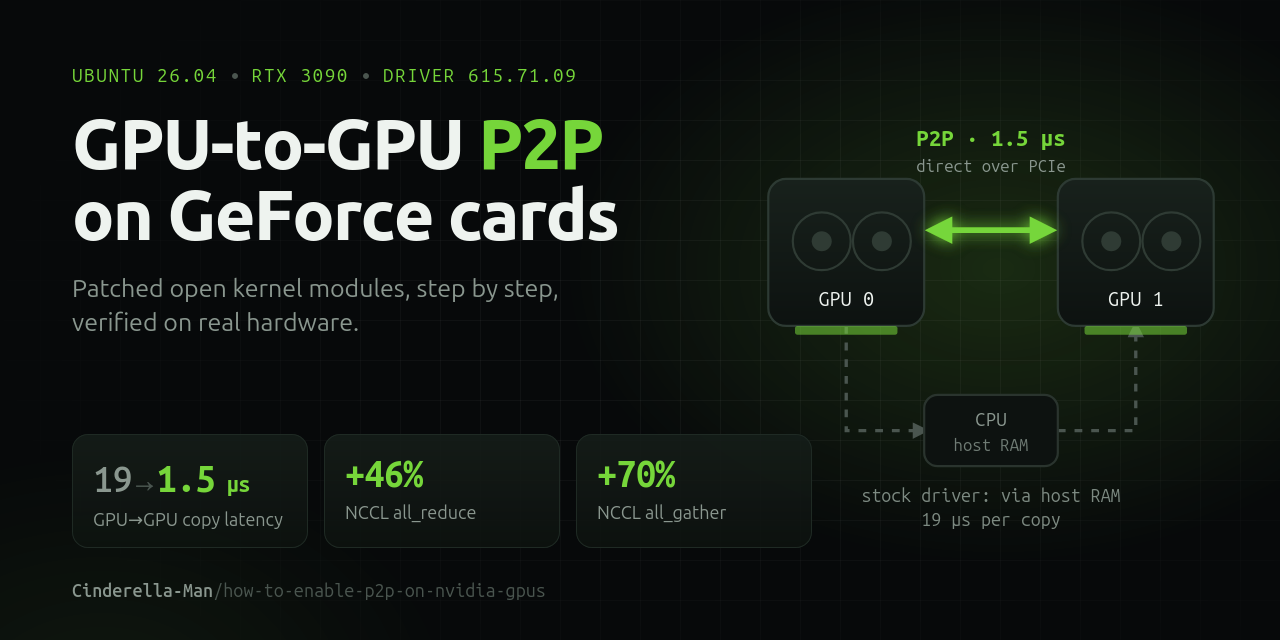
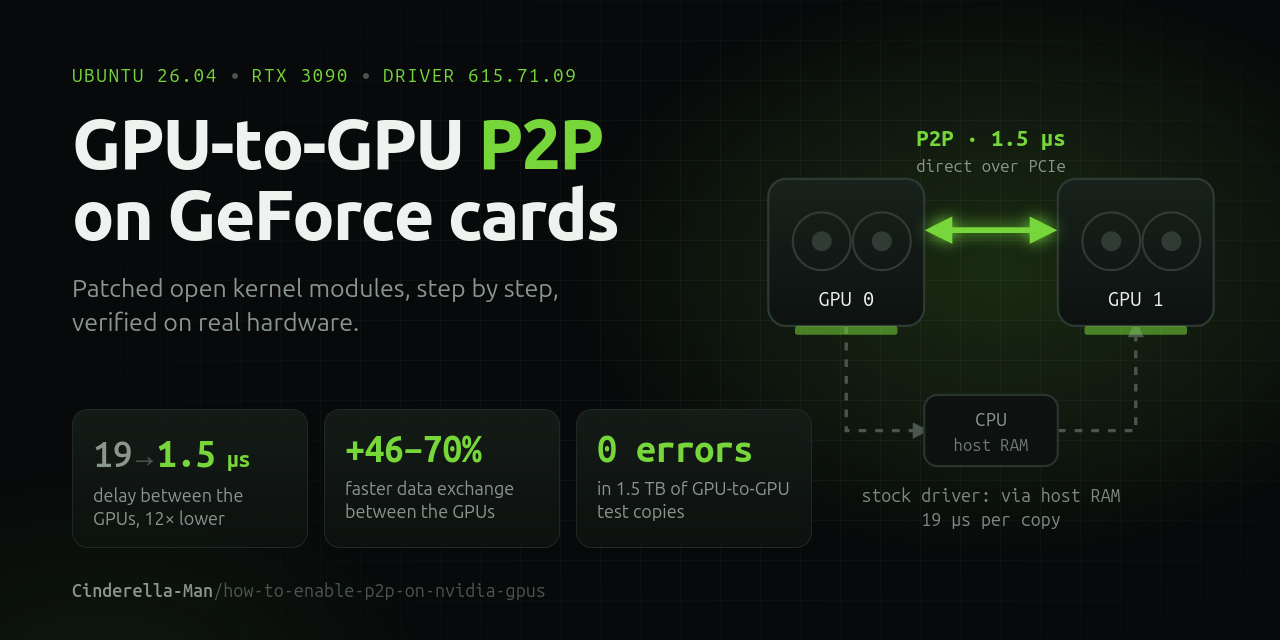
Explain the benchmark results in plain language
The README, the social preview and docs/benchmarks.md now describe what
P2P changed in everyday terms (delay between the GPUs, data exchange
speed, errors in the test copies) and keep the NCCL operation names as
footnotes. benchmarks.md gains an "In plain words" section explaining
latency vs bandwidth and what each NCCL operation is used for.

Both say that these are data-exchange speeds, not whole-workload
speedups, and quote upstream's vLLM result accurately (no gain to +32 %
depending on prompt length).

Changed region(s): [[0.0625, 0.6875, 0.2188, 0.8438], [0.25, 0.6562, 0.4062, 0.8125], [0.4688, 0.6875, 0.625, 0.8125]]

diff --git a/docs/assets/social-preview.html b/docs/assets/social-preview.html
@@ -64,7 +64,7 @@
   }
   .stat .num .from { color: var(--muted); font-weight: 500; }
   .stat .num .arrow { color: var(--dim); font-weight: 400; padding: 0 2px; }
-  .stat .label { margin-top: 6px; font-size: 18px; color: var(--muted); }
+  .stat .label { margin-top: 6px; font-size: 18px; line-height: 1.3; color: var(--muted); }
   .foot {
     position: absolute; left: 72px; bottom: 38px;
     font-family: "Ubuntu Sans Mono", "Noto Sans Mono", monospace;
@@ -87,15 +87,15 @@
   <div class="stats">
     <div class="stat">
       <div class="num"><span class="from">19</span><span class="arrow">→</span>1.5<span style="font-size:22px"> µs</span></div>
-      <div class="label">GPU→GPU copy latency</div>
+      <div class="label">delay between the GPUs, 12× lower</div>
     </div>
     <div class="stat">
-      <div class="num">+46%</div>
-      <div class="label">NCCL all_reduce</div>
+      <div class="num">+46–70%</div>
+      <div class="label">faster data exchange between the GPUs</div>
     </div>
     <div class="stat">
-      <div class="num">+70%</div>
-      <div class="label">NCCL all_gather</div>
+      <div class="num">0 errors</div>
+      <div class="label">in 1.5 TB of GPU-to-GPU test copies</div>
     </div>
   </div>
 

diff --git a/README.md b/README.md
@@ -49,16 +49,27 @@ nvidia-smi) stays Ubuntu's stock package. Copies then go card to card.
 Test rig: 2x RTX 3090 (GA102, 24 GiB, 32 GiB BAR1), Ryzen 9 3900X on a B550 board (one card in the chipset x4 slot),
 Ubuntu 26.04.1, kernel 7.0.0-44-generic, driver 615.71.09, CUDA 13.5.
 
-Benchmarks on that rig ([all numbers](docs/benchmarks.md)):
+### What P2P changed on that rig
 
-| | P2P off (via host RAM) | P2P on |
-|---|---|---|
-| GPU-to-GPU copy latency (`p2pBandwidthLatencyTest`) | 18-20 µs | **1-2 µs** |
-| Bidirectional copy bandwidth | 3.49 GB/s | **5.52 GB/s** |
-| NCCL all_reduce, 1 GiB | 1.88 GB/s | **2.75 GB/s** |
-| NCCL all_gather / reduce_scatter, 1 GiB | 1.6 GB/s | **2.7 GB/s** |
+Without P2P, every transfer between the two cards makes a detour: GPU -> the computer's main memory -> the other GPU.
+With P2P, one card writes straight into the other's memory.
 
-Absolute bandwidth is capped by the x4 chipset slot, not by P2P. Two cards on CPU lanes will see much more.
+| | Without P2P | With P2P | |
+|---|---|---|---|
+| Delay for one GPU to send a copy to the other | 18-20 µs | **1-2 µs** | about 12x less |
+| Both GPUs sending to each other at the same time | 3.49 GB/s | **5.52 GB/s** | +58 % |
+| GPUs adding up their results so each has the total ¹ | 1.88 GB/s | **2.75 GB/s** | +46 % |
+| GPUs sharing their pieces so each has all of them ² | 1.61 GB/s | **2.74 GB/s** | +70 % |
+| Errors in 1.5 TB of GPU-to-GPU test copies | | **0** | |
+
+¹ NCCL `all_reduce`. ² NCCL `all_gather`. NCCL is the library that PyTorch, vLLM and most multi-GPU software use to move
+data between GPUs. When a model is split across two GPUs, they do this kind of exchange after every layer.
+
+These are speeds of the data exchange itself, **not** of a whole AI workload: how much faster a model runs depends on
+how much of its time it spends exchanging data. (On upstream's own two-GPU machine, vLLM generated tokens anywhere from
+no faster to 32 % faster, depending on prompt length.) Absolute speeds on this rig are also held back by one card sitting in a slow x4 slot; with
+both cards on CPU lanes they are several times higher. Full numbers and how to measure them:
+[docs/benchmarks.md](docs/benchmarks.md).
 
 ## Disclaimer
 

diff --git a/docs/benchmarks.md b/docs/benchmarks.md
@@ -7,6 +7,25 @@ the desktop running, and the GPUs otherwise idle. Every "P2P off" number was mea
 P2P switched off inside the benchmark (`p2pBandwidthLatencyTest` does both halves, NCCL takes `NCCL_P2P_DISABLE=1`).
 With P2P off, data takes the same path as on the stock driver: GPU -> host RAM -> GPU.
 
+## In plain words
+
+- **Latency** is the delay before a transfer arrives. **Bandwidth** (GB/s) is how much data per second gets through
+  once it flows.
+- Without P2P, every GPU-to-GPU transfer is two trips: GPU -> the computer's main memory -> the other GPU. With P2P it
+  is one trip, straight into the other card's memory.
+- **NCCL** is the library PyTorch, vLLM and most multi-GPU software use to move data between GPUs. Its operations:
+
+  | Operation | What happens | Typical use |
+  |---|---|---|
+  | `all_reduce` | each GPU has partial results; they are added up and every GPU gets the total | after every layer when a model is split across GPUs (tensor parallel); averaging gradients in training |
+  | `all_gather` | each GPU has one piece; afterwards every GPU has all pieces | collecting split weights or outputs |
+  | `reduce_scatter` | the reverse of `all_gather`: results are added up and each GPU keeps one part | sharded training (FSDP, ZeRO) |
+  | `broadcast` | one GPU sends the same data to the others | handing out weights or inputs |
+  | `send/recv` | one GPU sends to another | pipeline parallelism, passing activations along |
+
+- Faster data exchange is not the same as a faster model. A workload speeds up only by the share of its time it spends
+  exchanging data, so expect a smaller gain end to end than the numbers below.
+
 ## The test rig's PCIe layout matters more than anything
 
 | | Slot | Link | Host <-> GPU (measured) |
